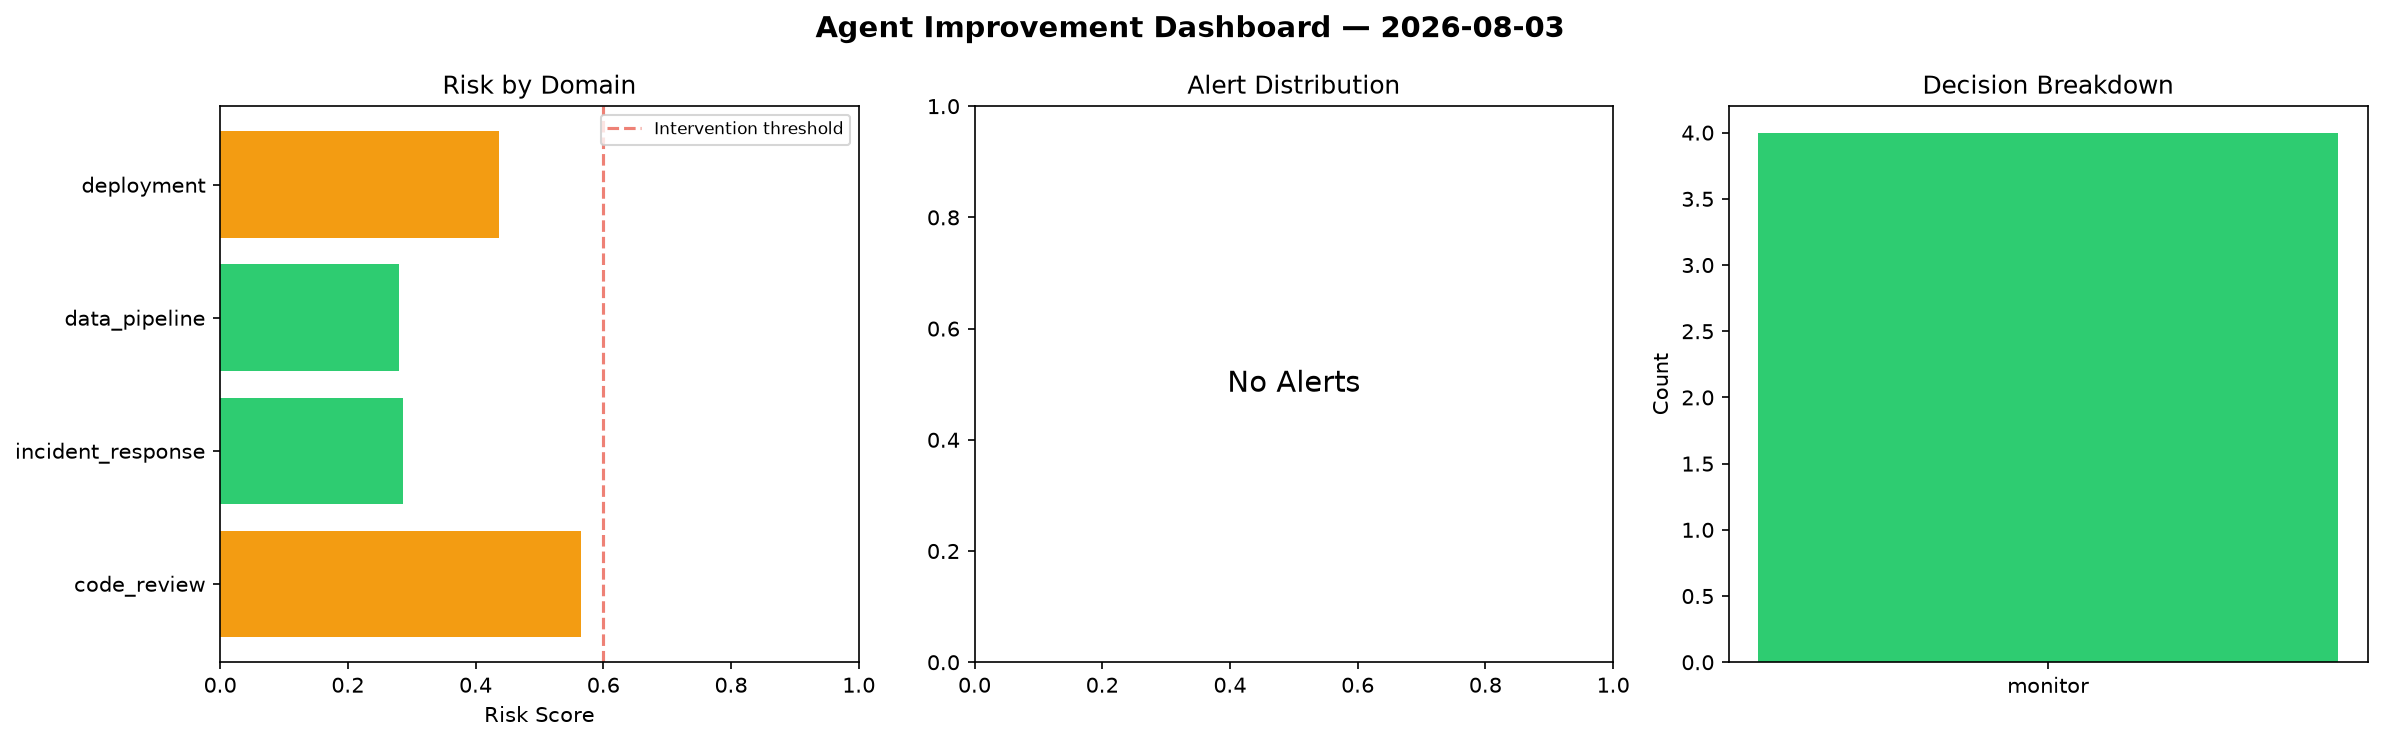
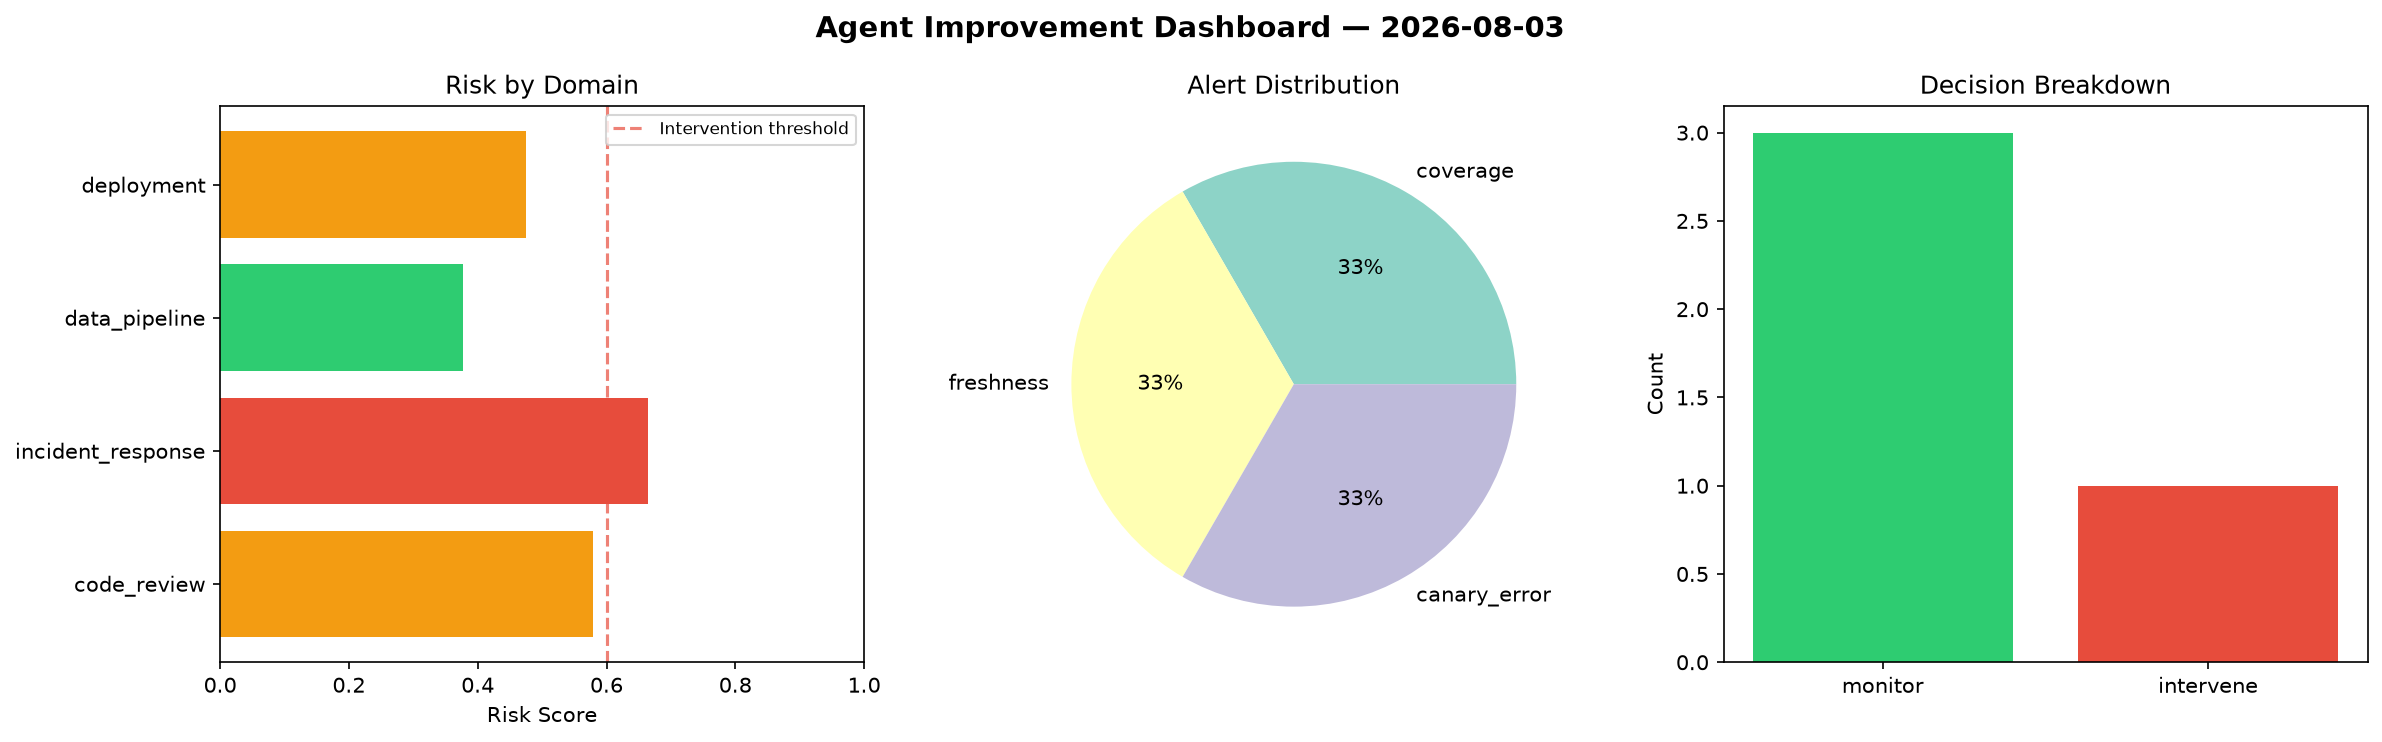
agent-improvement: daily cycle 2026-08-03T11:43

diff --git a/logs/2026-08-03.md b/logs/2026-08-03.md
@@ -1,6 +1,6 @@
 # Agent Improvement Report — 2026-08-03
 
-**Cycle ID:** `0669b473` | **Avg Risk:** 0.392 | **Interventions:** 0/4
+**Cycle ID:** `886d5568` | **Avg Risk:** 0.5242 | **Interventions:** 1/4
 
 ![Dashboard](2026-08-03_dashboard.png)
 
@@ -10,18 +10,18 @@
 
 | Domain | Risk Score | Decision | Alerts |
 |--------|-----------|----------|--------|
-| code_review | 0.5649 | monitor | none |
-| incident_response | 0.2865 | monitor | none |
-| data_pipeline | 0.2795 | monitor | none |
-| deployment | 0.4371 | monitor | none |
+| code_review | 0.5792 | monitor | coverage |
+| incident_response | 0.6646 | intervene | none |
+| data_pipeline | 0.3777 | monitor | freshness |
+| deployment | 0.4755 | monitor | canary_error |
 
 ## Delta vs Yesterday
 
 | Domain | Today | Yesterday | Change |
 |--------|-------|-----------|--------|
-| code_review | 0.5649 | 0.6537 | 📉 -13.6% |
-| incident_response | 0.2865 | 0.5554 | 📉 -48.4% |
-| data_pipeline | 0.2795 | 0.6958 | 📉 -59.8% |
-| deployment | 0.4371 | 0.1091 | 📈 300.6% |
+| code_review | 0.5792 | 0.6537 | 📉 -11.4% |
+| incident_response | 0.6646 | 0.5554 | 📈 19.7% |
+| data_pipeline | 0.3777 | 0.6958 | 📉 -45.7% |
+| deployment | 0.4755 | 0.1091 | 📈 335.8% |
 
 **Refinement:** `{'adjustment': 'maintain', 'trend': 'improving', 'window': 4}`
